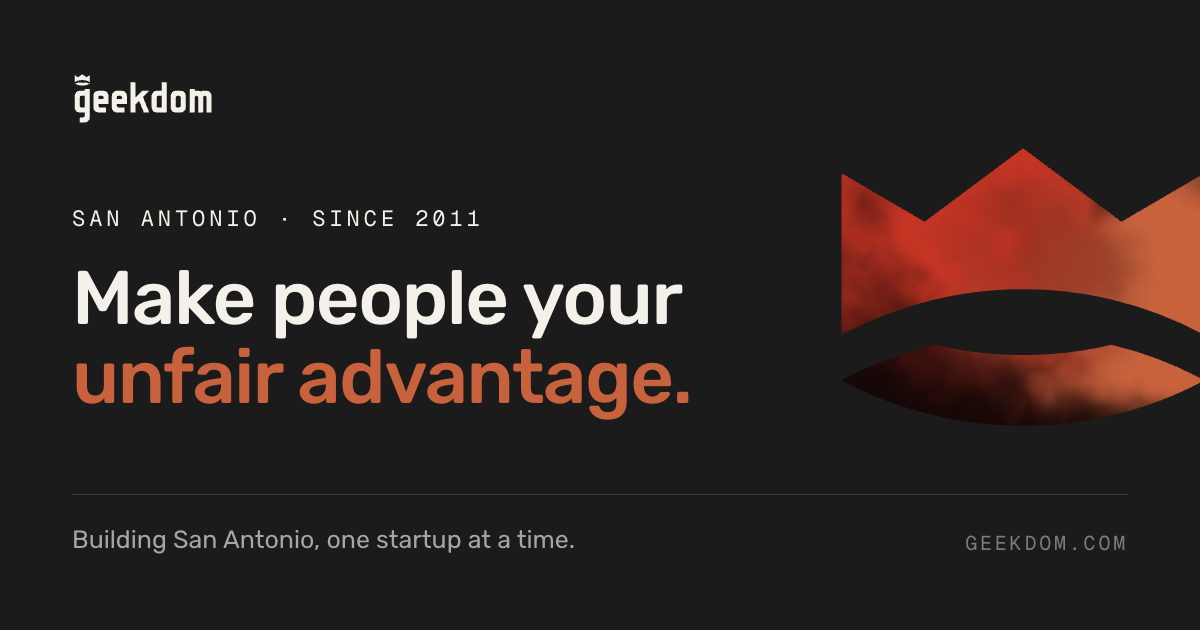
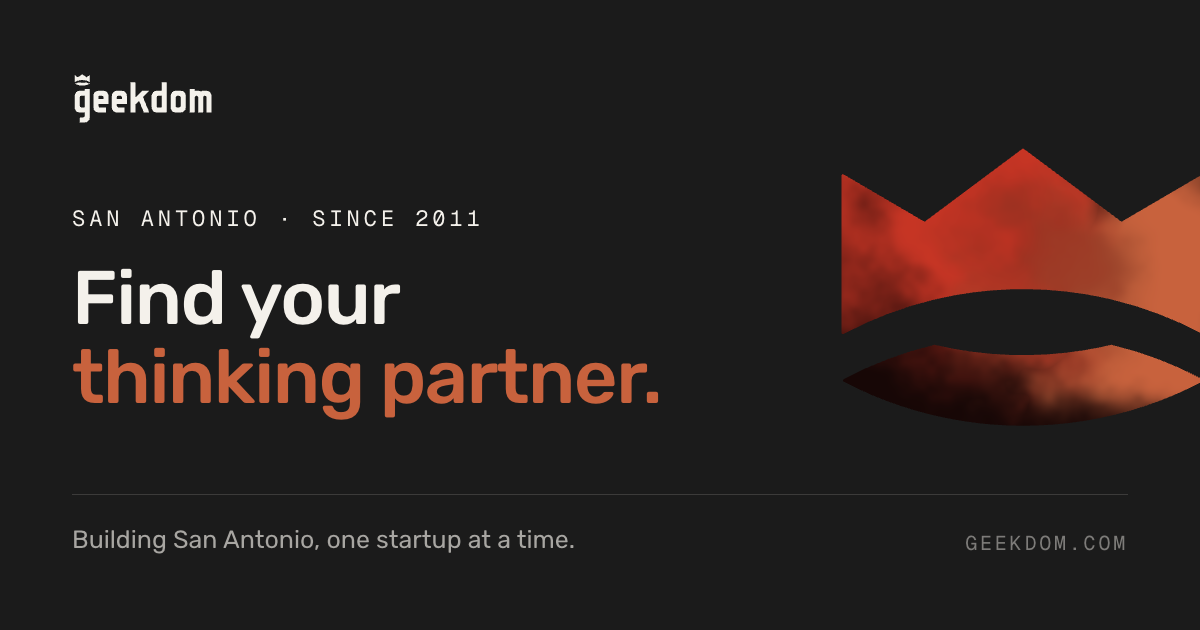
Realign SEO, share cards and llms.txt with the rebuilt site
The share card, the schema and the machine-readable summary were all still
describing the site as it stood before the homepage was rebuilt around the two
engines. Each had drifted in its own direction.

THE ROOT SHARE CARD LED WITH THE DEMOTED CLAIM. It read "Make people your
unfair advantage" — HOOK, which was the h1 for the life of the old site and
now CLOSES the homepage, because as an opening claim it competed with the
positioning line. So the card kept making the argument the rebuild removed
from the top, directly above a <title> making the other one, and those two
appear together in every search result and Slack unfurl.

POSITIONING is the h1 and the obvious fix, but it is 52 characters against a
measured ~21-per-line ceiling with no honest break in it. PROMISE is what the
title already uses, splits cleanly, and is the forward-facing claim. Split
from the constant rather than retyped, so a reword cannot leave the old words
sitting on the card.

LLMS.TXT CONTRADICTED ITSELF: it links /studio in its Pages list and then says,
four sections later, that the Studio has no page — true when written, false
once /studio shipped. A model reading top to bottom gets the contradiction
rather than the correction.

It also had no portfolio, which is the site's central evidence and the answer
to "what has Geekdom actually produced". Added, with each link LABELLED by
kind: four of those companies were acquired and their links point at press or
[…]

Changed region(s): [[0.0617, 0.4222, 0.5858, 0.6635]]

diff --git a/lib/og.ts b/lib/og.ts
@@ -1,5 +1,11 @@
 import { priceLabel } from "@/lib/membership";
-import { LOCATION } from "@/lib/site";
+import {
+  FOUNDED_YEAR,
+  LOCATION,
+  POSITIONING,
+  PROMISE,
+  SITE_NAME,
+} from "@/lib/site";
 
 /**
  * The share cards, one per page.
@@ -16,9 +22,14 @@ import { LOCATION } from "@/lib/site";
  * before they have decided whether to click, so the seven headlines below want
  * to be compared side by side, not hunted for across seven files.
  *
- * EVERY CARD IS TWO LINES, and the second is the gold one. Satori isn't
+ * EVERY CARD IS TWO LINES, and the second carries the accent. Satori isn't
  * involved so this is real CSS, but the constraint stays: the break is chosen
  * rather than measured, and a third line collides with the crown.
+ *
+ * THE ACCENT IS CLAY, NOT GOLD. This file said gold in three places and the
+ * cards have not rendered gold since the 2026 palette landed — there is no
+ * gold in the brand at all now. The comments were describing a colour the
+ * renderer had already stopped using.
  *
  * KEEP EACH LINE UNDER ROUGHLY 21 CHARACTERS. At 76px the type reaches the
  * crown's left edge at about that point and the last letter of the line
@@ -28,9 +39,9 @@ import { LOCATION } from "@/lib/site";
  * will run out sooner. Render the set and look at it: `npm run og`.
  */
 export interface OgCard {
-  /** Mono kicker. Gold — this is an ink ground. */
+  /** Mono kicker. Bone on the graphite ground — Clay fails at this size. */
   eyebrow: string;
-  /** Exactly two lines. The second renders in gold. */
+  /** Exactly two lines. The second renders in Clay. */
   lines: readonly [string, string];
   /**
    * Where in the shader's timeline this card's pigment is frozen.
@@ -50,6 +61,16 @@ export interface OgCard {
 
 const price = priceLabel();
 
+/*
+  "Find your thinking partner." -> ["Find your", "thinking partner."]
+  Two words, then the rest. Both halves land under the 21-character ceiling.
+*/
+const PROMISE_WORDS = PROMISE.split(" ");
+const PROMISE_LINES: readonly [string, string] = [
+  PROMISE_WORDS.slice(0, 2).join(" "),
+  PROMISE_WORDS.slice(2).join(" "),
+];
+
 export const OG_CARDS: Record<string, OgCard> = {
   /*
     The root card, so it also covers any page without one of its own —
@@ -58,10 +79,28 @@ export const OG_CARDS: Record<string, OgCard> = {
   */
   home: {
     eyebrow: `${LOCATION.city} · Since 2011`,
-    lines: ["Make people your", "unfair advantage."],
+    /*
+      THE CARD AND THE <title> HAVE TO AGREE, because a search result and a
+      Slack unfurl show them together.
+
+      This card read "Make people your unfair advantage." — HOOK, which was
+      the h1 for the life of the old site and is now the line that CLOSES the
+      homepage. The rebuild moved it there deliberately: as an opening claim it
+      competed with the positioning line. The card kept making the demoted
+      argument, directly above a title making the other one.
+
+      POSITIONING is the h1 and would be the obvious fix, but it is 52
+      characters against the ~21-per-line limit above and there is no honest
+      two-line break in it. PROMISE is what the title already uses, it splits
+      cleanly, and it is the forward-facing claim.
+
+      SPLIT FROM THE CONSTANT rather than retyped, so a reworded PROMISE cannot
+      leave the old words sitting on the card.
+    */
+    lines: PROMISE_LINES,
     seed: 3.4,
     out: "app/opengraph-image.png",
-    alt: "Geekdom — Make people your unfair advantage. A membership club for founders and builders in San Antonio.",
+    alt: `Geekdom — ${PROMISE} ${POSITIONING}`,
   },
 
   /*
@@ -140,6 +179,32 @@ export const OG_CARDS: Record<string, OgCard> = {
     seed: 50.1,
     out: "app/(site)/apply/opengraph-image.png",
     alt: "Apply for membership at Geekdom — a club for founders and builders in San Antonio.",
+  },
+
+  /*
+    THE EASTER EGG GETS A CARD, because a hidden page is the one most likely to
+    arrive as a bare link — somebody finds it behind the footer wordmark and
+    pastes it. Without this it unfurled the root card, which says "Find your
+    thinking partner" and gives no hint you are being shown fifteen years of
+    photographs.
+
+    NO YEAR COUNT ON IT, and this is the trap the page itself avoids. The page
+    computes `years` from FOUNDED_YEAR precisely so the heading never goes
+    stale — but a share card is a STATIC PNG. Baking "15 years" into it means
+    that in January the card says fifteen while the page it links to says
+    sixteen, and nothing would catch it because nothing re-renders. The eyebrow
+    carries `Since 2011`, which is a fixed fact, and the lines are drawn from
+    the page's own editorial line instead.
+
+    It stays out of the sitemap regardless — a card is for a link somebody
+    chose to share, not an invitation to crawl it.
+  */
+  "since-2011": {
+    eyebrow: `Since ${FOUNDED_YEAR} · ${LOCATION.city}`,
+    lines: ["The people who", "showed up."],
+    seed: 58.6,
+    out: "app/(site)/since-2011/opengraph-image.png",
+    alt: `${SITE_NAME} — the photo wall. The people, the pitches, the late nights, and the community that showed up. Since ${FOUNDED_YEAR}.`,
   },
 };
 

diff --git a/app/llms.txt/route.ts b/app/llms.txt/route.ts
@@ -11,6 +11,7 @@ import {
   POSITIONING,
   SITE_NAME,
   SITE_URL,
+  PORTFOLIO,
   STUDIO,
   TAGLINE,
 } from "@/lib/site";
@@ -32,9 +33,14 @@ import { IS_PREVIEW } from "@/lib/preview";
  * Ask a model what Geekdom is today and the honest answer, drawn from the open
  * web, is "a coworking space in San Antonio" — true until this year, wrong from
  * October. The pages say otherwise but they say it in marketing prose spread
- * over seven routes. This states it once, flatly, including the two parts no
- * page has a natural place for: the Studio, which has no page yet, and the
- * programs that no longer run.
+ * over seven routes. This states it once, flatly, including the parts no page
+ * has a natural place for: the programs that no longer run, and the portfolio
+ * as a plain list rather than a wall of logos.
+ *
+ * KEEP IT CONSISTENT WITH ITSELF. This file linked /studio in its Pages list
+ * and then said, four sections later, that the Studio had no page — true when
+ * it was written and false once /studio shipped. A model reading top to bottom
+ * gets the contradiction, not the correction.
  *
  * GENERATED, NOT WRITTEN. Every fact below reads from lib/site.ts and
  * lib/membership.ts, so the price, the dates and the milestones cannot drift
@@ -119,8 +125,8 @@ ${LOCATION.full}
 
 ## The Studio
 
-${SITE_NAME} runs a second thing alongside the club, and this site does not yet
-have a page for it. It is the venture layer, not a club benefit.
+${SITE_NAME} runs a second thing alongside the club. It is the venture layer,
+not a club benefit, and it has its own page at ${url("/studio")}.
 
 - The Studio backs ${STUDIO.foundersPerYear} local founders a year with a
   ${STUDIO.checkRange} ${STUDIO.checkTerms} check from the ${STUDIO.fund}, plus
@@ -133,6 +139,22 @@ have a page for it. It is the venture layer, not a club benefit.
 - Open to the wider community, not only Studio companies:
   ${STUDIO.openPrograms.join(", ")}.
 - Contact: ${STUDIO.email}.
+
+## What came out of the room
+
+The answer to "what has ${SITE_NAME} actually produced", and the reason the
+claim above is checkable rather than a slogan. ${PORTFOLIO.length} companies
+started here. Stage is each company's own, not a ${SITE_NAME} holding — these
+are businesses that came out of the room, not a fund's positions.
+
+${PORTFOLIO.map((c) => {
+  // LABEL WHAT THE LINK IS. Four of these companies were acquired and their
+  // domains are gone, so the best link is press or a video — and an unlabelled
+  // URL here would be cited as the company's homepage, which it is not.
+  const label = { site: "Site", story: "Press", video: "Video" } as const;
+  const link = c.href ? ` [${label[c.link ?? "site"]}: ${c.href}]` : "";
+  return `- ${c.name} — ${c.stage}${c.description ? `. ${c.description}` : ""}${link}`;
+}).join("\n")}
 
 ## What ${SITE_NAME} no longer runs
 

diff --git a/components/site/og-card.tsx b/components/site/og-card.tsx
@@ -13,7 +13,7 @@ import { SITE_NAME, TAGLINE } from "@/lib/site";
  *   cannot draw the pigment crown at all — its version of the card was a flat
  *   white logo on ink. It also can't reach next/font, so the type was whatever
  *   system grotesk the renderer had, on a site whose whole type argument is
- *   Geist.
+ *   that it is set in the brand's own face.
  *
  *   A hand-built HTML file in scripts/ could run the shader, but only by
  *   duplicating the GLSL, the mask, the color tokens and the type scale — four
@@ -22,8 +22,13 @@ import { SITE_NAME, TAGLINE } from "@/lib/site";
  *
  * Rendering inside the app costs one dev-only route and duplicates nothing: the
  * crown below is the same InkField the homepage hero runs, masked by the same
- * crown-mask.svg, over the same --ink, in Geist. What ships is what the browser
- * saw.
+ * crown-mask.svg, over the same Graphite, IN RUBIK — this route sits under the
+ * root layout, so it inherits `--font-rubik` with no work. What ships is what
+ * the browser saw.
+ *
+ * (Two lines above used to say Geist and one said `--ink`. Both predate the
+ * 2026 palette and the Rubik switch; the cards have rendered Rubik on Graphite
+ * since, so the comments were describing a card that no longer existed.)
  *
  * FIXED PIXELS THROUGHOUT, and no responsive variants. The canvas is 1200×630
  * on every machine that will ever see it; a `sm:` here would be a breakpoint

diff --git a/components/site/structured-data.tsx b/components/site/structured-data.tsx
@@ -1,8 +1,8 @@
+import { SITE_DESCRIPTION } from "@/lib/seo";
 import {
   CONTACT_EMAIL,
   FOUNDED_YEAR,
   LOCATION,
-  PROMISE,
   SITE_NAME,
   SITE_URL,
   SOCIALS,
@@ -42,7 +42,21 @@ export function SiteJsonLd() {
       "@id": `${SITE_URL}/#organization`,
       name: SITE_NAME,
       url: SITE_URL,
-      description: `A membership club for founders and builders in ${LOCATION.city}. ${PROMISE}`,
+      /*
+        SITE_DESCRIPTION, NOT A SECOND HAND-WRITTEN ONE.
+
+        This read "A membership club for founders and builders in San Antonio"
+        — which describes the Club and stops there, and flattening Geekdom to
+        a membership product is the one thing AGENTS.md says never to do. It
+        runs the Club and the Studio, operates LaunchSA for the City, produces
+        Startup + Tech Week and sits on MIT REAP's regional team.
+
+        It also meant the entity description and the meta description were two
+        different strings maintained in two places, which is how one of them
+        ends up a year behind. SITE_DESCRIPTION already derives its price from
+        Stripe; this now inherits that.
+      */
+      description: SITE_DESCRIPTION,
       email: CONTACT_EMAIL,
       foundingDate: String(FOUNDED_YEAR),
       logo: `${SITE_URL}/brand/geekdom_logo_full.svg`,

diff --git a/app/(site)/since-2011/page.tsx b/app/(site)/since-2011/page.tsx
@@ -11,6 +11,9 @@ import { FOUNDED_YEAR, SITE_NAME } from "@/lib/site";
 const years = new Date().getFullYear() - FOUNDED_YEAR;
 
 export const metadata: Metadata = pageMetadata({
+  // Its own card. See the note in lib/og.ts — the card deliberately carries no
+  // year count, because it is a static PNG and `years` above is not.
+  ownCard: true,
   title: `${years} years of ${SITE_NAME}`,
   path: "/since-2011",
   description: `${years} years of Geekdom — the people, the pitches, the late nights, and the community that showed up. A photo wall from the third floor and everywhere else it happened.`,
